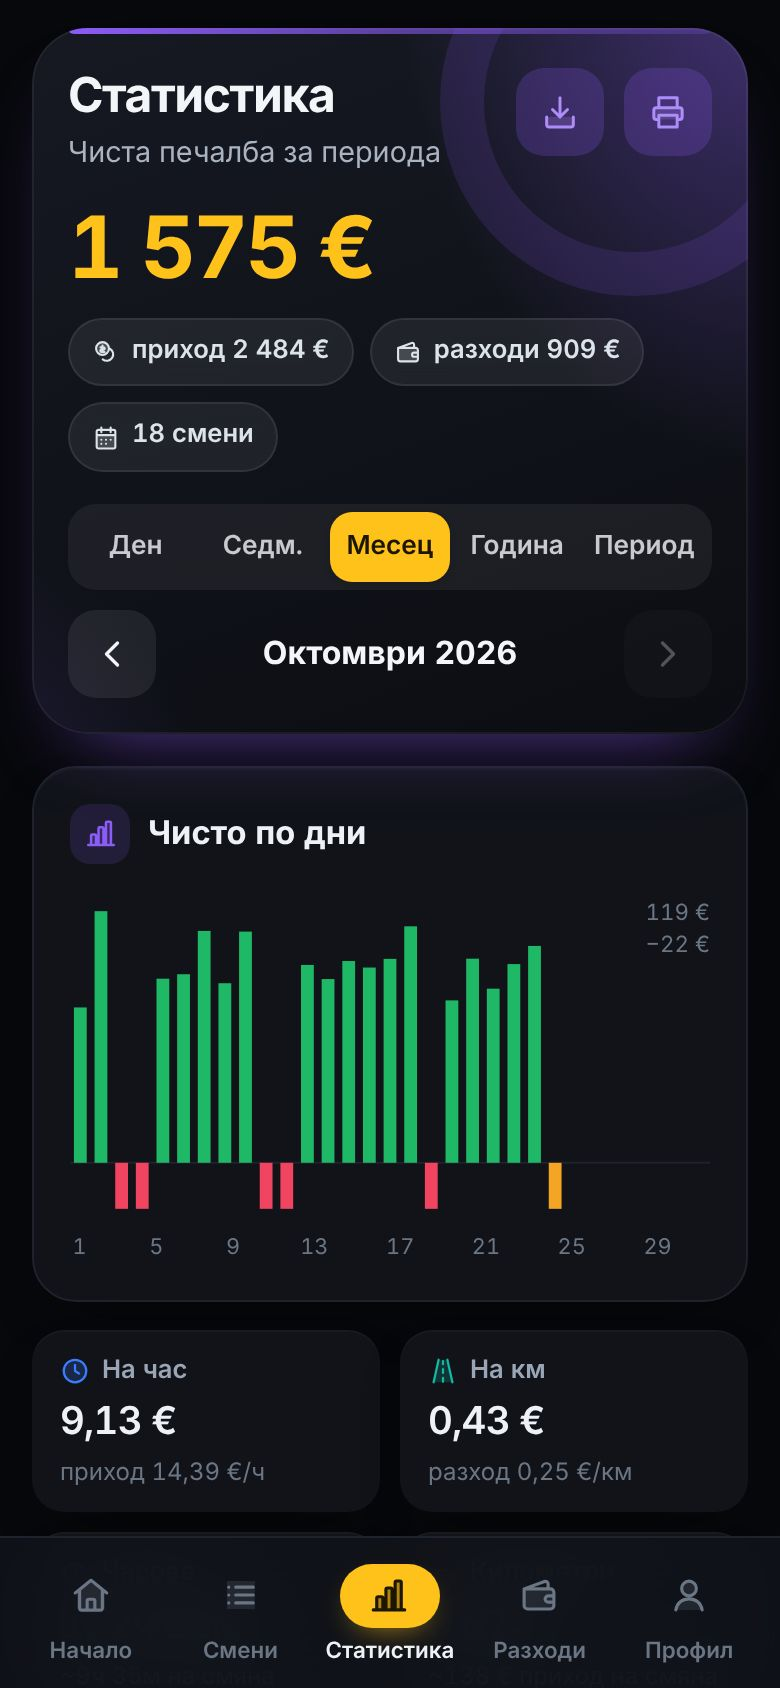
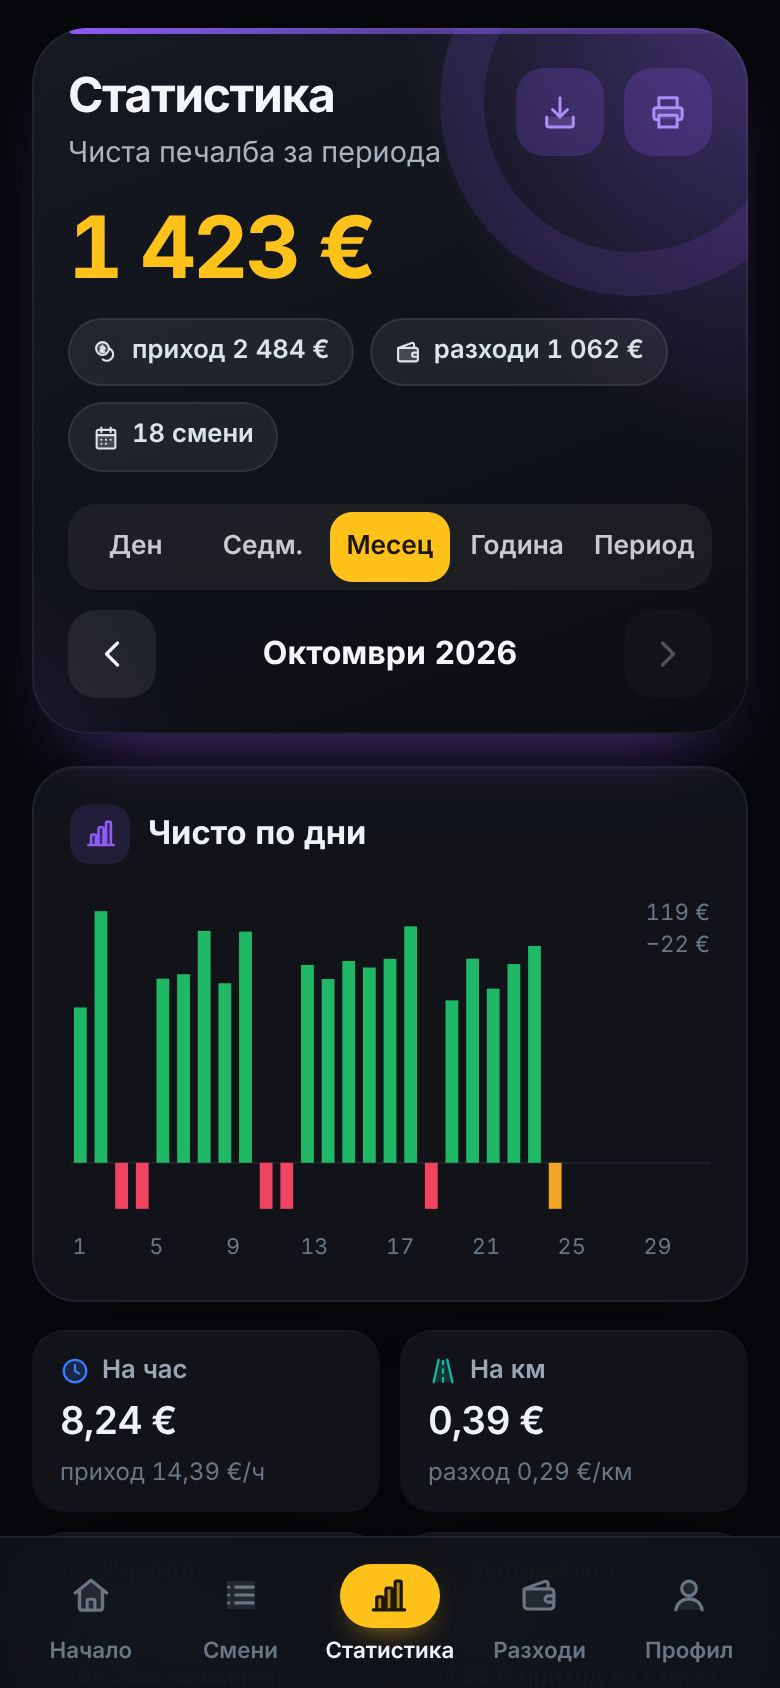
Статистика и Смени: наемът, ефирът и другите постоянни разходи за текущия месец се вадят изцяло
Claude-Session: https://claude.ai/code/session_014HWntc6b96vsoychA5RByP

diff --git a/js/admin.js b/js/admin.js
@@ -1,6 +1,6 @@
 // ProfiTaxi – админ панел. Отделен вход на /admin. Шофьорите нямат връзка към него.
 
-import { h, fill, icon, cx, money, money2, moneyFull, todayStr, addDays, fmtDate, fmtNum, fmtNum1, fmtDuration, isoToDateStr, parseDate, eachDay, MONTHS, MONTHS_SHORT, WD_SHORT, startOfMonth, dateStr } from './util.js';
+import { h, fill, icon, cx, money, money2, moneyFull, todayStr, addDays, fmtDate, fmtNum, fmtNum1, fmtDuration, isoToDateStr, parseDate, eachDay, MONTHS, MONTHS_SHORT, WD_SHORT, startOfMonth, endOfMonth, dateStr } from './util.js';
 import * as store from './store.js';
 import { applyTheme, toast, confirmSheet, openSheet, sheetHead, field, barChart, stat, tone, segmented, empty, getTheme, setTheme, shareRows, cardTitle } from './ui.js';
 import { periodStats, series, shiftIncome, shiftExpenses, shiftKm, shiftHours, shiftDate, costMonthly, goalProgress, timeInsights, activeCosts } from './calc.js';
@@ -474,7 +474,7 @@ function drivers() {
   const root = h('div');
   const today = todayStr();
   const mFrom = startOfMonth(today);
-  const all = scoped().map((d) => ({ d, s: subState(d.user), st: periodStats(d, mFrom, today), last: lastShift(d) }));
+  const all = scoped().map((d) => ({ d, s: subState(d.user), st: periodStats(d, mFrom, endOfMonth(today)), last: lastShift(d) }));
   const listEl = h('div');
   function drawList() {
     const q = listState.q.trim().toLowerCase();

diff --git a/tests/features.test.html b/tests/features.test.html
@@ -75,6 +75,10 @@ try {
     ok('„От 1-во число“ смята наема за целия месец до днес', Math.abs(rentOf() - 600 / dim * days) < 0.05, rentOf().toFixed(2));
     ok('Няма двоен наем след повторно запазване', store.myData().costs.filter((c) => c.system === 'rent' && (!c.endDate || c.endDate >= t)).length === 1);
     store.updateProfile({ carType: 'rent', rent: { amount: 700, period: 'month' } }, { from: m0 });
+    const { endOfMonth } = await import('../js/util.js');
+    const fullRent = periodStats(store.myData(), m0, endOfMonth(t)).fixedByCat.rent || 0;
+    ok('Статистика „този месец“ вади целия наем (700 €)', Math.abs(fullRent - 700) < 0.05, fullRent.toFixed(2));
+    ok('Следващият месец още не се смята', (periodStats(store.myData(), addDays(endOfMonth(t), 1), addDays(endOfMonth(t), 20)).fixedByCat.rent || 0) === 0);
     ok('Нова сума от 1-во число замества старата за месеца', Math.abs(rentOf() - 700 / dim * days) < 0.05, rentOf().toFixed(2));
   }
 

diff --git a/js/views/shifts.js b/js/views/shifts.js
@@ -13,7 +13,7 @@ export function shiftsView({ go, data }) {
   const done = data.shifts.filter((s) => s.end);
   const active = data.shifts.find((s) => !s.end);
   const today = todayStr();
-  const month = periodStats(data, startOfMonth(today), today);
+  const month = periodStats(data, startOfMonth(today), endOfMonth(today));
   const nights = done.filter(isNight).length;
 
   const draw = () => {
@@ -38,7 +38,7 @@ export function shiftsView({ go, data }) {
         h('button', { class: 'btn btn-page', onclick: () => go('/shift/new') }, icon('plus', 18), 'Въведи смяна')),
       [...groups.entries()].map(([m, items]) => {
         const from = m + '-01';
-        const st = periodStats(data, from, minStr(endOfMonth(from), today));
+        const st = periodStats(data, from, endOfMonth(from));
         return h('div', null,
           h('div', { class: 'month-head' },
             h('h2', null, `${MONTHS[parseDate(from).getMonth()]} ${from.slice(0, 4)}`),

diff --git a/js/calc.js b/js/calc.js
@@ -60,7 +60,9 @@ export function periodStats(data, from, to) {
   const today = todayStr();
   const inP = shifts.filter((s) => { const d = shiftDate(s); return d >= from && d <= to && s.end; });
   const workedSet = new Set(inP.map(shiftDate));
-  const fixedTo = minStr(to, today);
+  // Постоянните разходи (наем, ефир, данъци…) се броят за целия текущ месец, защото са платени
+  // или дължими за него, но не и за бъдещи месеци. Затова „Октомври“ показва целия наем от 600 €.
+  const fixedTo = minStr(to, endOfMonth(today));
   const days = from <= fixedTo ? eachDay(from, fixedTo) : [];
   let fixed = 0;
   for (const d of days) fixed += fixedForDay(costs, profile, d, workedSet.has(d));

diff --git a/sw.js b/sw.js
@@ -1,5 +1,5 @@
 // ProfiTaxi – service worker: приложението се отваря и без интернет.
-const VERSION = 'profitaxi-v14';
+const VERSION = 'profitaxi-v15';
 const SHELL = [
   '/app', '/app.html', '/css/app.css', '/manifest.webmanifest', '/icons/icon-192.png', '/icons/favicon-64.png',
   '/js/app.js', '/js/util.js', '/js/store.js', '/js/calc.js', '/js/ui.js', '/js/constants.js',
